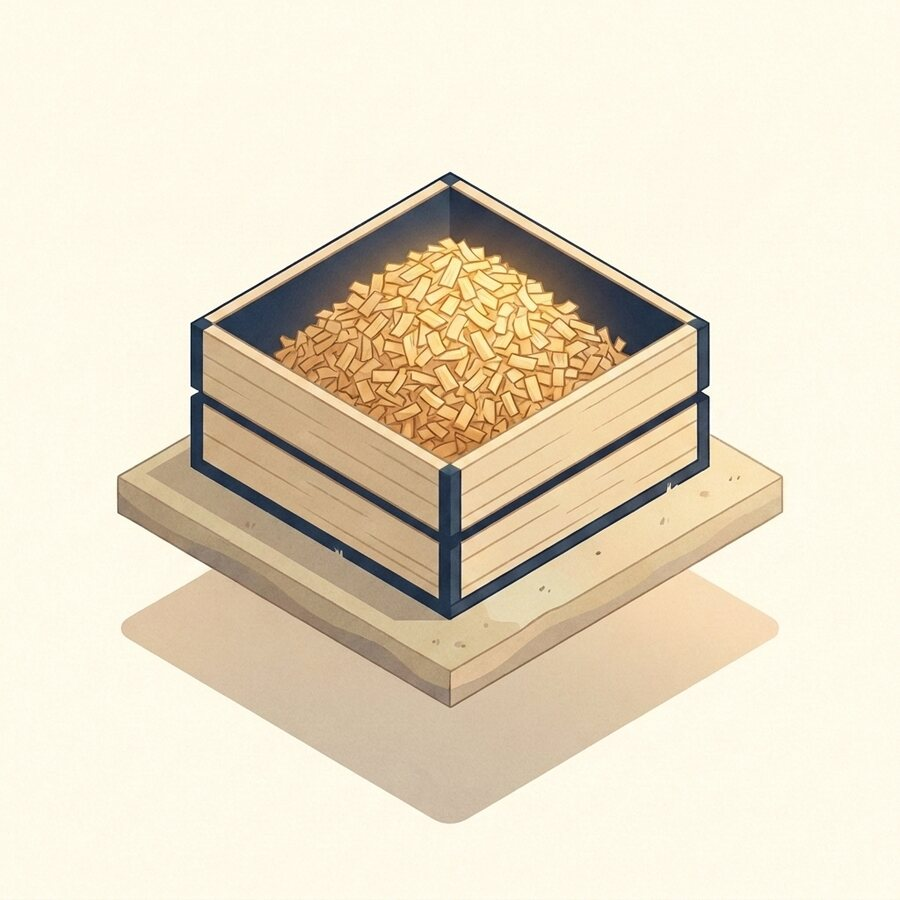
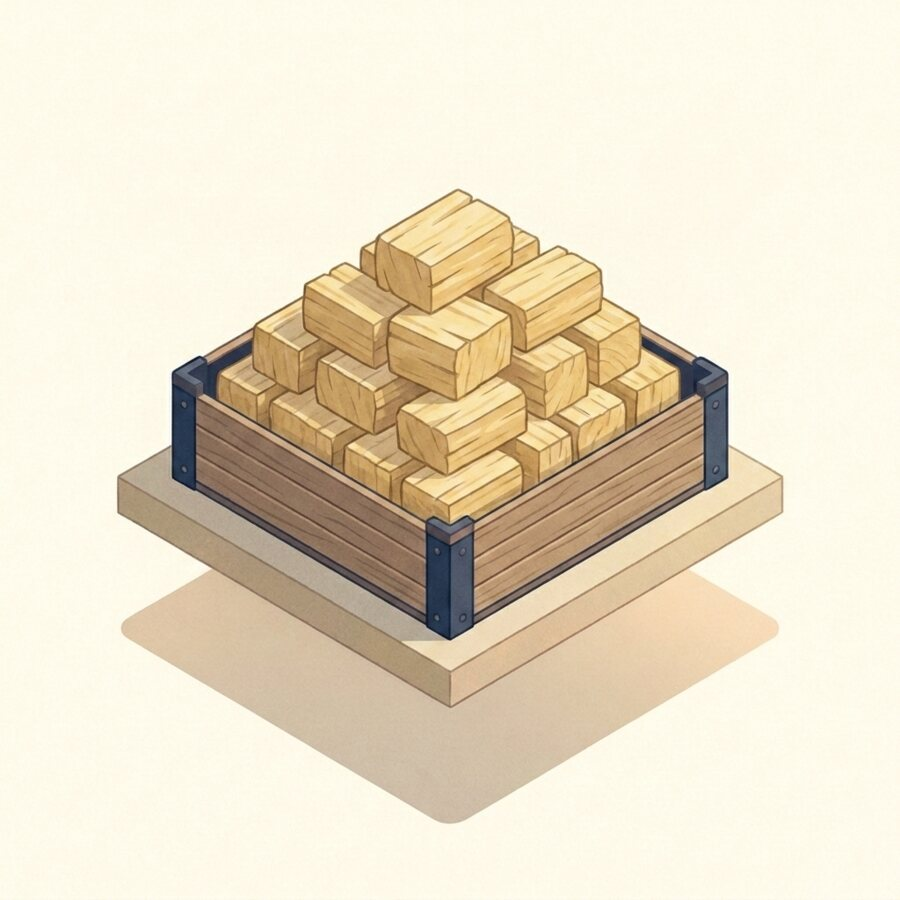
fix: cañamiza vs residuo inequívocos + procesamiento con el tallo partido
Enfoque 'forma del material' (idea de Guille): el paso 'El
procesamiento' ahora muestra la máquina separando el tallo en dos
pilas distintas (cañamiza dorada / residuo gris). La cañamiza es
chunky (trozos leñosos gruesos, material sólido de construcción);
el residuo es fino y volátil (polvo + fibra corta + hojas). 3
imágenes nuevas, mismos nombres. Texto del procesamiento anuncia
las dos vías.

Changed region(s): [[0.1244, 0.1867, 0.8089, 0.7778], [0.6533, 0.6533, 0.7156, 0.6844]]

diff --git a/components/masterplan/MasterplanStageGate.tsx b/components/masterplan/MasterplanStageGate.tsx
@@ -142,7 +142,7 @@ const TXT = {
       { img: '/viaje/01-aire.jpg', title: 'El aire', body: 'Ese carbono queda arriba — sobre la misma estepa que tiene la tierra, el agua y el sol para recuperarlo. En el aire sobra lo que abajo hace falta.' },
       { img: '/viaje/02-cultivo.jpg', title: 'El cultivo', body: 'La fotosíntesis lo captura mientras la planta crece — en meses, no en décadas. Cada hectárea sembrada trabaja a cielo abierto, absorbiendo carbono todos los días.' },
       { img: '/viaje/03-cosecha.jpg', title: 'La cosecha', body: 'La planta se cosecha entera y viaja pocos kilómetros: del campo a la planta de procesamiento. Nada se descarta.' },
-      { img: '/viaje/04-canamiza.jpg', title: 'El procesamiento', body: 'El tallo se separa en sus partes: la cañamiza —el corazón leñoso—, la fibra y el residuo. Acá el viaje se abre en dos caminos que corren en paralelo.' },
+      { img: '/viaje/04-canamiza.jpg', title: 'El procesamiento', body: 'El tallo pasa por la máquina y se separa en dos: la cañamiza —los trozos leñosos, sólidos y livianos, que van a la pared— y el residuo —el polvo y las fibras cortas, que van al suelo—. Acá el viaje se abre en dos caminos que corren en paralelo.' },
     ] as readonly { img: string; title: string; body: string; hito?: string }[],
     v_via_a_header: 'La vía de la pared',
     v_via_a: [
@@ -446,7 +446,7 @@ const TXT = {
       { img: '/viaje/01-aire.jpg', title: 'The air', body: 'That carbon stays above — over the very steppe that has the land, the water and the sun to recover it. The air holds in excess what is needed below.' },
       { img: '/viaje/02-cultivo.jpg', title: 'The crop', body: 'Photosynthesis captures it as the plant grows — in months, not decades. Every planted hectare works in the open air, absorbing carbon every day.' },
       { img: '/viaje/03-cosecha.jpg', title: 'The harvest', body: 'The whole plant is harvested and travels a few kilometers: from the field to the processing plant. Nothing is discarded.' },
-      { img: '/viaje/04-canamiza.jpg', title: 'The processing', body: 'The stalk is separated into its parts: the hurd —its woody core—, the fiber and the residue. Here the journey opens into two paths that run in parallel.' },
+      { img: '/viaje/04-canamiza.jpg', title: 'The processing', body: 'The stalk goes through the machine and separates into two: the hurd —the woody, solid, light chips that go to the wall— and the residue —the dust and short fibers that go to the soil—. Here the journey opens into two paths that run in parallel.' },
     ] as readonly { img: string; title: string; body: string; hito?: string }[],
     v_via_a_header: 'The wall path',
     v_via_a: [